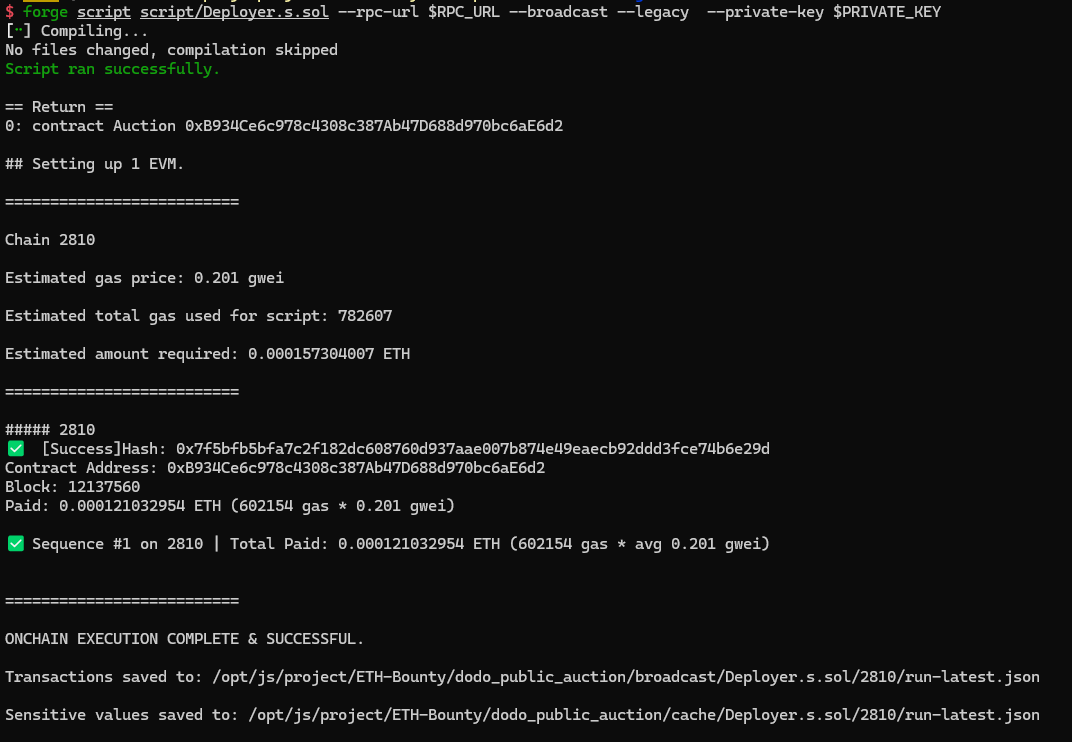
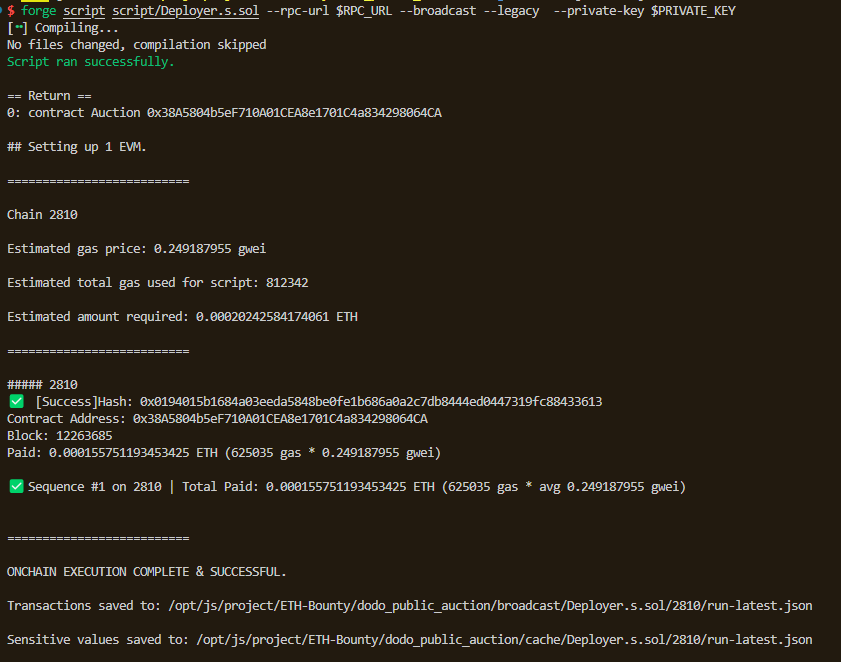
fix: add dodo public auction owner withdraw check

diff --git a/README.md b/README.md
@@ -54,7 +54,7 @@ https://morph.ghost.io/developer-guide-building-a-decentralized-hotel-booking-sy
 
 ![](./dodo_public_auction/image2.png)
 
-0xB934Ce6c978c4308c387Ab47D688d970bc6aE6d2
+0x38A5804b5eF710A01CEA8e1701C4a834298064CA
 
 ### Arbitrum：（二选一）
 
